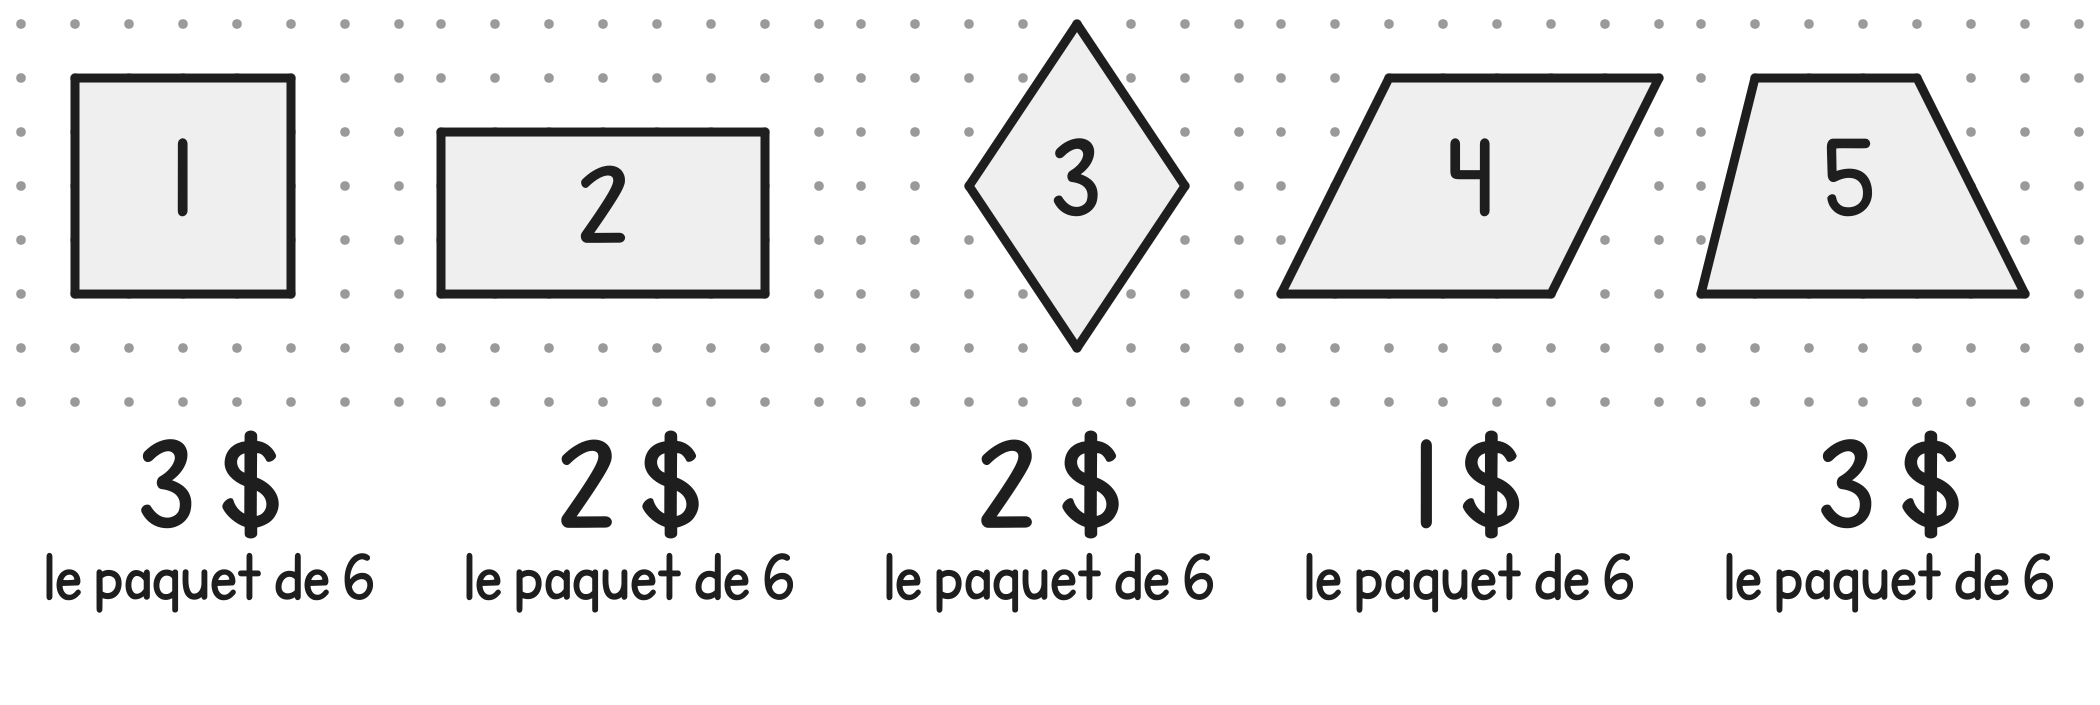
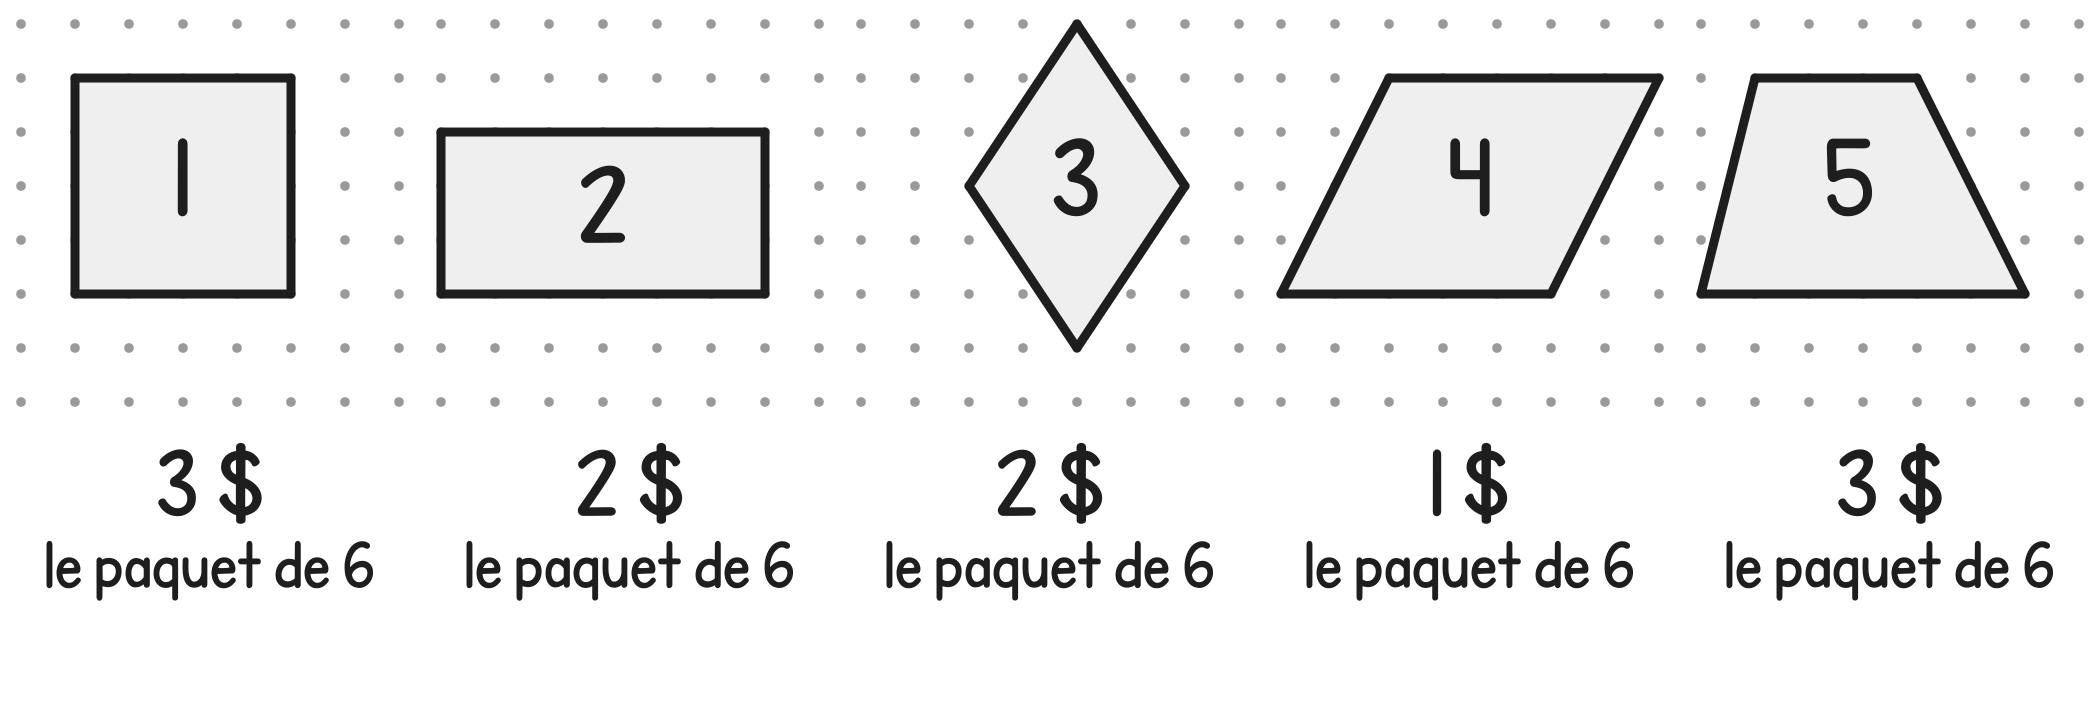
Ruban avec une vraie boucle, légende « le tour de la boîte », montants plus petits
Claude-Session: https://claude.ai/code/session_01NiTaWGpjQjB6yeVp3yNw7H

diff --git a/ressources/resoudre-paniers-guignolee-4e-annee/dessins/dessins.py b/ressources/resoudre-paniers-guignolee-4e-annee/dessins/dessins.py
@@ -92,33 +92,53 @@ def fournisseurs():
         b += txt(x + 128, 48, nom, 20, font=KG)
         b += pile(x + cw / 2, 175, n, cols)
         b += f"<line x1='{x+20}' y1='200' x2='{x+cw-20}' y2='200' stroke='{GRIS}' stroke-width='2'/>"
-        b += txt(x + cw / 2, 248, prix, 38, font=KG)
+        b += txt(x + cw / 2, 244, prix, 28, font=KG)
         b += txt(x + cw / 2, 276, unite, 18, font=KG)
     save('fournisseurs-boites', W, H, b)
 
 
 # ---------- 3. Le ruban ----------
+def boucle(cx, cy, k=1.0, sw=5):
+    """Boucle de ruban (deux oreilles, un nœud, deux pans), centrée sur le nœud (cx, cy)."""
+    st = f"fill='#fff' stroke='{INK}' stroke-width='{sw}' stroke-linejoin='round' stroke-linecap='round'"
+    pli = f"fill='none' stroke='{INK}' stroke-width='{sw*0.6}' stroke-linecap='round'"
+    g = (
+        # pans (derrière)
+        f"<path d='M-6 6 L-26 46 L-16 42 L-10 52 L6 10 Z' {st}/>"
+        f"<path d='M6 6 L26 46 L16 42 L10 52 L-6 10 Z' {st}/>"
+        # oreilles
+        f"<path d='M-6 -4 C-30 -34 -62 -26 -58 -4 C-55 16 -26 14 -6 4 Z' {st}/>"
+        f"<path d='M6 -4 C30 -34 62 -26 58 -4 C55 16 26 14 6 4 Z' {st}/>"
+        # plis dans les oreilles
+        f"<path d='M-14 -4 C-28 -14 -40 -14 -46 -8' {pli}/>"
+        f"<path d='M14 -4 C28 -14 40 -14 46 -8' {pli}/>"
+        # nœud
+        f"<rect x='-11' y='-11' width='22' height='22' rx='6' {st}/>"
+    )
+    return f"<g transform='translate({cx} {cy}) scale({k})'>{g}</g>"
+
+
 def ruban():
-    W, H = 640, 290
+    W, H = 640, 300
     RUB = f"fill='none' stroke='{INK}' stroke-width='7' stroke-linecap='round' stroke-linejoin='round'"
     # dessus de la boîte vu de haut (rectangle 30 cm x 20 cm), à l'échelle
     k = 8
-    x, y = 90, 70
+    x, y = 90, 90
     w, h = 30 * k, 20 * k
-    b = txt(x + w / 2, 42, 'Taille de la boîte', 22, font=KG)
+    b = txt(x + w / 2, 30, 'Taille de la boîte', 22, font=KG)
     b += f"<rect x='{x}' y='{y}' width='{w}' height='{h}' fill='{GRIS_PALE}' stroke='none'/>"
-    # ruban qui fait le tour du dessus : même ligne noire épaisse que la boucle
+    # ruban qui fait le tour du dessus : ligne noire épaisse
     b += f"<rect x='{x}' y='{y}' width='{w}' height='{h}' {RUB}/>"
-    bx, by = x + w, y
-    b += f"<path d='M{bx} {by} c 30 -40 70 -20 40 10 c -20 18 -40 0 -40 -10 c -10 -30 30 -60 46 -30' {RUB}/>"
+    # boucle posée au milieu du côté du haut
+    b += boucle(x + w / 2, y, 0.9)
     b += txt(x + w / 2, y + h + 36, '30 cm', 21, font=KG)
     b += txt(x - 14, y + h / 2 + 7, '20 cm', 21, 'end', font=KG)
     # légende
     lx = 400
-    b += f"<line x1='{lx}' y1='122' x2='{lx+44}' y2='122' {RUB}/>"
-    b += txt(lx + 58, 120, 'le ruban fait', 20, 'start', font=KG) + txt(lx + 58, 145, 'le tour du dessus', 20, 'start', font=KG)
-    b += f"<path d='M{lx+6} 200 c 18 -24 42 -12 24 6 c -12 11 -24 0 -24 -6' {RUB}/>"
-    b += txt(lx + 58, 196, '+ 50 cm pour', 20, 'start', font=KG) + txt(lx + 58, 221, 'faire la boucle', 20, 'start', font=KG)
+    b += f"<line x1='{lx}' y1='132' x2='{lx+44}' y2='132' {RUB}/>"
+    b += txt(lx + 58, 130, 'le ruban fait', 20, 'start', font=KG) + txt(lx + 58, 155, 'le tour de la boîte', 20, 'start', font=KG)
+    b += boucle(lx + 22, 212, 0.42, sw=8)
+    b += txt(lx + 58, 208, '+ 50 cm pour', 20, 'start', font=KG) + txt(lx + 58, 233, 'faire la boucle', 20, 'start', font=KG)
     save('ruban', W, H, b)
 
 
@@ -148,8 +168,8 @@ def etiquettes():
         cx = ox + (sum(p[0] for p in pts) / len(pts) + dx) * u
         cy = oy + (sum(p[1] for p in pts) / len(pts) + dy) * u
         b += txt(cx, cy + 10, num, 28, font=KG)                         # numéro de l'étiquette
-        b += txt(zx + gw * u / 2, oy + gh * u + 42, prix, 32, font=KG)
-        b += txt(zx + gw * u / 2, oy + gh * u + 66, 'le paquet de 6', 17, font=KG)
+        b += txt(zx + gw * u / 2, oy + gh * u + 38, prix, 24, font=KG)
+        b += txt(zx + gw * u / 2, oy + gh * u + 62, 'le paquet de 6', 17, font=KG)
     save('etiquettes', W, H, b)
 
 
